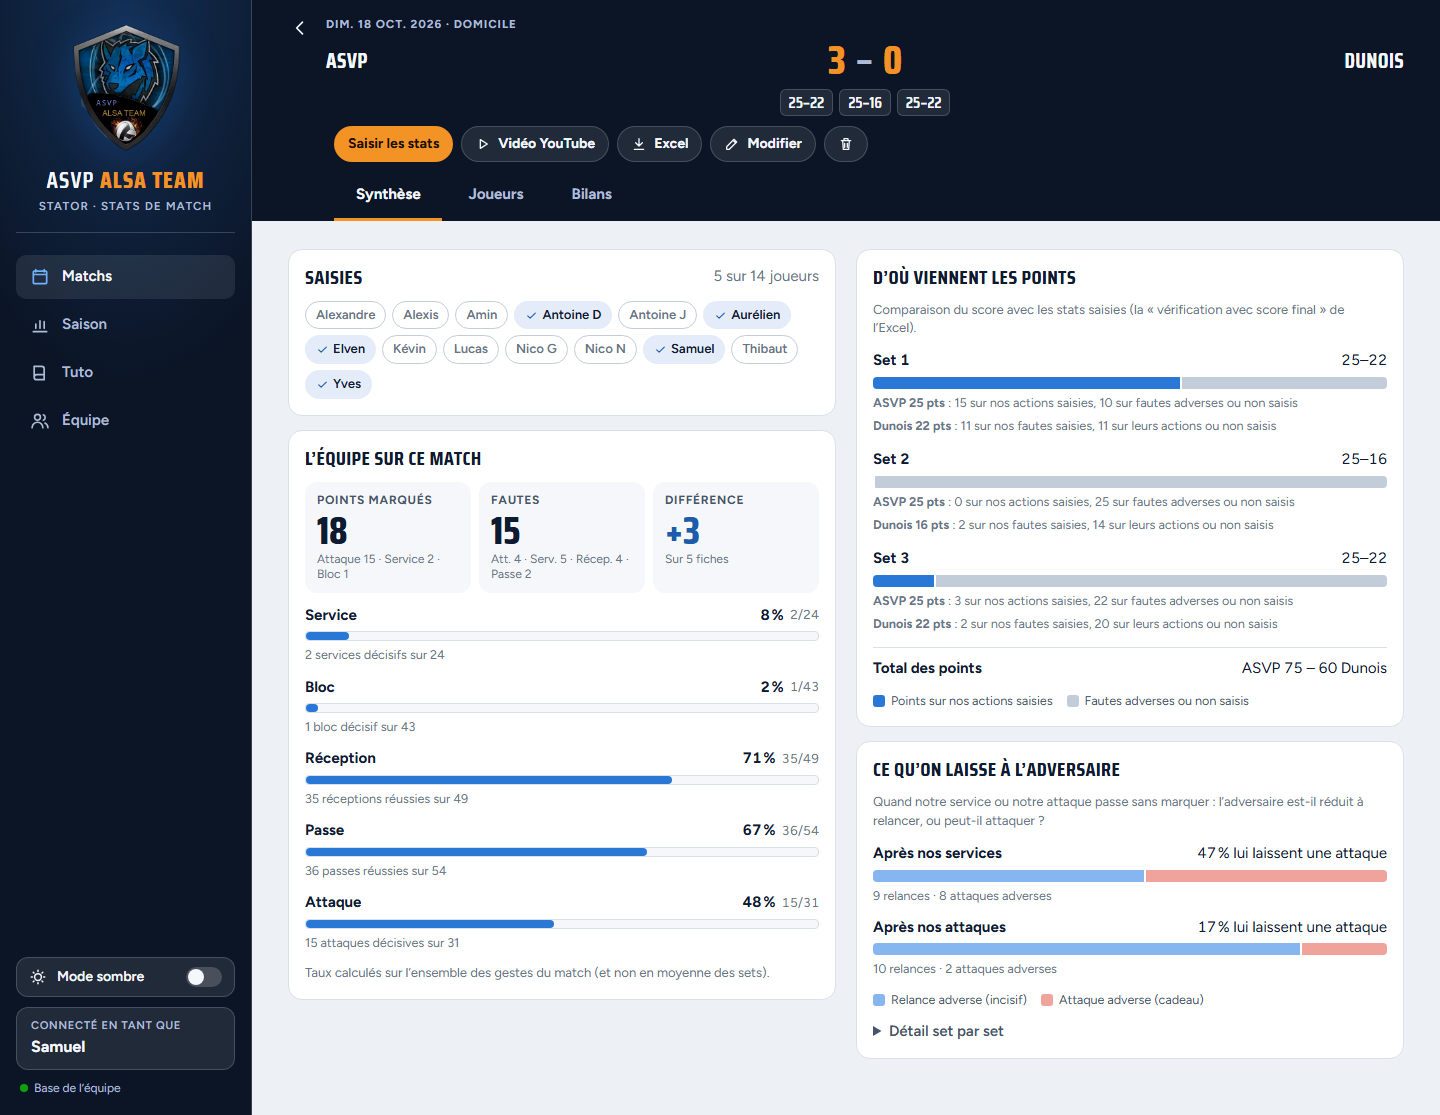
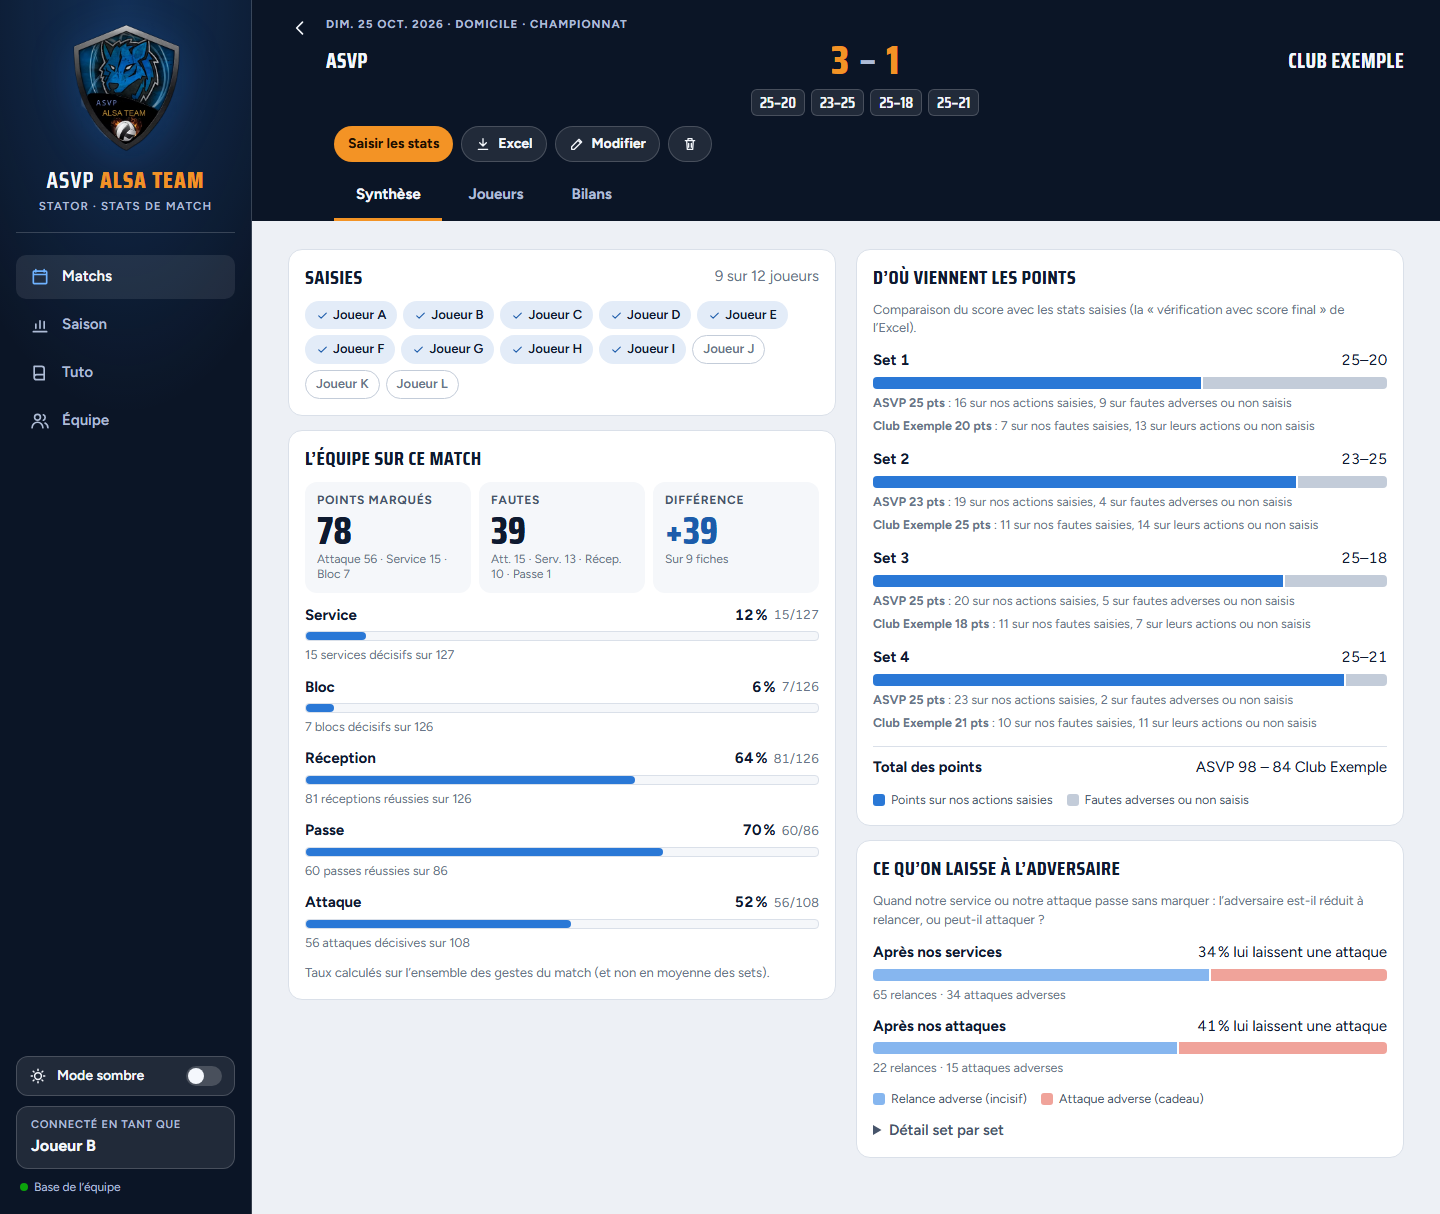
Retire les données du vrai match du dépôt
- Captures du README refaites avec des données fictives (Joueur A à L, Club Exemple, Club Démo).
- Tests et exemples du code sans noms réels.

diff --git a/web/js/views-tuto.js b/web/js/views-tuto.js
@@ -251,7 +251,7 @@
             <p>Tant que le coach garde son fichier, chaque joueur peut y recopier sa fiche de l’app en <b>deux copier-coller</b>. La fiche téléchargée reprend exactement l’onglet du joueur chez le coach : mêmes lignes, mêmes colonnes, mêmes formules. Il suffit de coller au même endroit.</p>
             <${SheetMap} />
             <ol class="howto steps-coach">
-              <li><b>Télécharge la fiche.</b> À la fin de la saisie, onglet <i>Bilan</i> › « Télécharger la fiche Excel ». Le coach peut aussi la télécharger depuis <i>Match › Joueurs</i>, en touchant le nom du joueur. Le fichier s’appelle par exemple « ASVP - Dunois - Samuel.xlsx ».</li>
+              <li><b>Télécharge la fiche.</b> À la fin de la saisie, onglet <i>Bilan</i> › « Télécharger la fiche Excel ». Le coach peut aussi la télécharger depuis <i>Match › Joueurs</i>, en touchant le nom du joueur. Le fichier s’appelle par exemple « ASVP - Adversaire - Prénom.xlsx ».</li>
               <li><b>Ouvre les deux fichiers</b> : la fiche téléchargée et l’Excel du coach, sur Excel ou sur Google Sheets.</li>
               <li><b>Copie les stats.</b> Dans la fiche, sélectionne les cases <code>E3</code> à <code>I30</code>. Le plus simple : tape <code>E3:I30</code> dans la zone Nom (en haut à gauche, à côté de la barre de formule), puis Entrée. Copie avec Ctrl+C (Cmd+C sur Mac).</li>
               <li><b>Colle chez le coach, sans la mise en forme.</b> Ouvre l’onglet à ton nom, clique sur la case <code>E3</code>, puis :

diff --git a/web/js/views-match.js b/web/js/views-match.js
@@ -156,7 +156,7 @@
     const setRow = (i, k, v) => setRows(rows.map((x, j) => (j === i ? Object.assign({}, x, { [k]: v.replace(/[^0-9]/g, "").slice(0, 2) }) : x)));
     return html`<form class="form" onSubmit=${submit}>
       <div class="field"><label for="f-opp"><b>Adversaire</b></label>
-        <input id="f-opp" data-autofocus value=${opp} onInput=${(e) => { setOpp(e.target.value); setErr(""); }} placeholder="Ex. : Dunois" autocomplete="off" /></div>
+        <input id="f-opp" data-autofocus value=${opp} onInput=${(e) => { setOpp(e.target.value); setErr(""); }} placeholder="Nom du club adverse" autocomplete="off" /></div>
       <div class="field-row">
         <div class="field"><label for="f-date"><b>Date</b></label><input id="f-date" type="date" value=${date} onInput=${(e) => setDate(e.target.value)} /></div>
         <div class="field"><span class="lbl"><b>Lieu</b></span>

diff --git a/tests/test_api.py b/tests/test_api.py
@@ -1,7 +1,7 @@
 from stator.models import StatCount, db
 
-SAMUEL = {
-    "id": "m-dunois__samuel", "matchId": "m-dunois", "playerId": "samuel",
+FICHE = {
+    "id": "m-exemple__joueur-a", "matchId": "m-exemple", "playerId": "joueur-a",
     "sets": {"1": {"service": {"incisif": 1, "cadeau": 1, "erreur": 1}, "attaque": {"decisive_p3": 3, "erreur": 2}},
              "2": {"bloc": {"present": 5}}},
     "bilan": {"pp": "Présent au bloc", "pm": "Service", "cp": "", "cm": ""},
@@ -17,33 +17,33 @@ def test_page_and_static_files(client):
 
 
 def test_state_round_trip(team):
-    assert team.put("/api/stats/m-dunois__samuel", json=SAMUEL).status_code == 200
+    assert team.put("/api/stats/m-exemple__joueur-a", json=FICHE).status_code == 200
     state = team.get("/api/state").get_json()
-    assert state["config"]["roster"][0] == {"id": "samuel", "name": "Samuel", "active": True, "poste": "central"}
-    m = state["matches"]["m-dunois"]
+    assert state["config"]["roster"][0] == {"id": "joueur-a", "name": "Joueur A", "active": True, "poste": "central"}
+    m = state["matches"]["m-exemple"]
     assert m["date"] == "2026-10-18" and m["sets"][0] == {"a": 25, "o": 18} and m["result"] is None
-    doc = state["stats"]["m-dunois__samuel"]
-    assert doc["sets"] == SAMUEL["sets"] and doc["bilan"]["pp"] == "Présent au bloc"
+    doc = state["stats"]["m-exemple__joueur-a"]
+    assert doc["sets"] == FICHE["sets"] and doc["bilan"]["pp"] == "Présent au bloc"
 
 
 def test_rewriting_a_sheet_replaces_counts(team, app):
-    team.put("/api/stats/m-dunois__samuel", json=SAMUEL)
-    lighter = dict(SAMUEL, sets={"1": {"service": {"incisif": 2}}})
-    assert team.put("/api/stats/m-dunois__samuel", json=lighter).status_code == 200
-    assert team.get("/api/state").get_json()["stats"]["m-dunois__samuel"]["sets"] == {"1": {"service": {"incisif": 2}}}
+    team.put("/api/stats/m-exemple__joueur-a", json=FICHE)
+    lighter = dict(FICHE, sets={"1": {"service": {"incisif": 2}}})
+    assert team.put("/api/stats/m-exemple__joueur-a", json=lighter).status_code == 200
+    assert team.get("/api/state").get_json()["stats"]["m-exemple__joueur-a"]["sets"] == {"1": {"service": {"incisif": 2}}}
     with app.app_context():
         assert db.session.query(StatCount).count() == 1
 
 
 def test_rewriting_set_scores(team):
-    r = team.put("/api/matches/m-dunois", json={"opponent": "Dunois", "sets": [{"a": 25, "o": 23}], "result": None})
+    r = team.put("/api/matches/m-exemple", json={"opponent": "Club Exemple", "sets": [{"a": 25, "o": 23}], "result": None})
     assert r.status_code == 200
-    assert team.get("/api/state").get_json()["matches"]["m-dunois"]["sets"] == [{"a": 25, "o": 23}]
+    assert team.get("/api/state").get_json()["matches"]["m-exemple"]["sets"] == [{"a": 25, "o": 23}]
 
 
 def test_deleting_a_match_deletes_its_sheets(team, app):
-    team.put("/api/stats/m-dunois__samuel", json=SAMUEL)
-    assert team.delete("/api/matches/m-dunois").status_code == 204
+    team.put("/api/stats/m-exemple__joueur-a", json=FICHE)
+    assert team.delete("/api/matches/m-exemple").status_code == 204
     state = team.get("/api/state").get_json()
     assert state["matches"] == {} and state["stats"] == {}
     with app.app_context():
@@ -51,16 +51,16 @@ def test_deleting_a_match_deletes_its_sheets(team, app):
 
 
 def test_invalid_data_is_refused_with_a_message(team):
-    bad = dict(SAMUEL, sets={"1": {"service": {"inconnu": 1}}})
-    r = team.put("/api/stats/m-dunois__samuel", json=bad)
+    bad = dict(FICHE, sets={"1": {"service": {"inconnu": 1}}})
+    r = team.put("/api/stats/m-exemple__joueur-a", json=bad)
     assert r.status_code == 400 and "inconnue" in r.get_json()["error"]
     assert team.put("/api/matches/m-x", json={"opponent": ""}).status_code == 400
-    assert team.put("/api/stats/m-dunois__yves", json=SAMUEL).status_code == 400  # id incohérent
+    assert team.put("/api/stats/m-exemple__joueur-b", json=FICHE).status_code == 400  # id incohérent
     assert team.put("/api/config", json={"roster": [{"id": "a", "name": "A", "poste": "gardien"}]}).status_code == 400
 
 
 def test_match_video_link(team):
-    r = team.put("/api/matches/m-dunois", json={"opponent": "Dunois", "video": "https://youtu.be/abc123XYZ_0"})
+    r = team.put("/api/matches/m-exemple", json={"opponent": "Club Exemple", "video": "https://youtu.be/abc123XYZ_0"})
     assert r.status_code == 200
-    assert team.get("/api/state").get_json()["matches"]["m-dunois"]["video"] == "https://youtu.be/abc123XYZ_0"
-    assert team.put("/api/matches/m-dunois", json={"opponent": "Dunois", "video": "javascript:alert(1)"}).status_code == 400
+    assert team.get("/api/state").get_json()["matches"]["m-exemple"]["video"] == "https://youtu.be/abc123XYZ_0"
+    assert team.put("/api/matches/m-exemple", json={"opponent": "Club Exemple", "video": "javascript:alert(1)"}).status_code == 400

diff --git a/tests/conftest.py b/tests/conftest.py
@@ -21,9 +21,9 @@ def client(app):
 def team(client):
     """Une équipe de deux joueurs et un match."""
     client.put("/api/config", json={"team": "ASVP", "season": "2026-2027", "roster": [
-        {"id": "samuel", "name": "Samuel", "active": True, "poste": "central"},
-        {"id": "yves", "name": "Yves", "active": True, "poste": "libero"},
+        {"id": "joueur-a", "name": "Joueur A", "active": True, "poste": "central"},
+        {"id": "joueur-b", "name": "Joueur B", "active": True, "poste": "libero"},
     ]})
-    client.put("/api/matches/m-dunois", json={"opponent": "Dunois", "date": "2026-10-18", "venue": "dom",
+    client.put("/api/matches/m-exemple", json={"opponent": "Club Exemple", "date": "2026-10-18", "venue": "dom",
                                               "sets": [{"a": 25, "o": 18}, {"a": 25, "o": 20}, {"a": 25, "o": 15}]})
     return client

diff --git a/stator/models.py b/stator/models.py
@@ -32,7 +32,7 @@ class Setting(db.Model):
 
 class Player(db.Model):
     __tablename__ = "players"
-    id: Mapped[str] = mapped_column(String(80), primary_key=True)  # slug stable, ex. "antoine-d"
+    id: Mapped[str] = mapped_column(String(80), primary_key=True)  # slug stable dérivé du nom, ex. "joueur-a"
     name: Mapped[str] = mapped_column(String(120))
     poste: Mapped[str | None] = mapped_column(String(20))  # clé de referentiel.json > roles
     active: Mapped[bool] = mapped_column(Boolean, default=True)

diff --git a/README.md b/README.md
@@ -9,9 +9,11 @@ son onglet pour la coller dans l'Excel du coach (marche à suivre dans le Tuto d
 
 ## Aperçu
 
-| Saisie d'une fiche, avec la vidéo du match | Synthèse d'un match |
+Captures réalisées avec des données fictives (joueurs, adversaires et stats inventés).
+
+| Saisie d'une fiche | Synthèse d'un match |
 |---|---|
-| ![Saisie](docs/screenshots/02-saisie-avec-video.png) | ![Synthèse](docs/screenshots/03-match-synthese.png) |
+| ![Saisie](docs/screenshots/02-saisie.png) | ![Synthèse](docs/screenshots/03-match-synthese.png) |
 
 | Accueil | Joueurs et détail set par set |
 |---|---|
